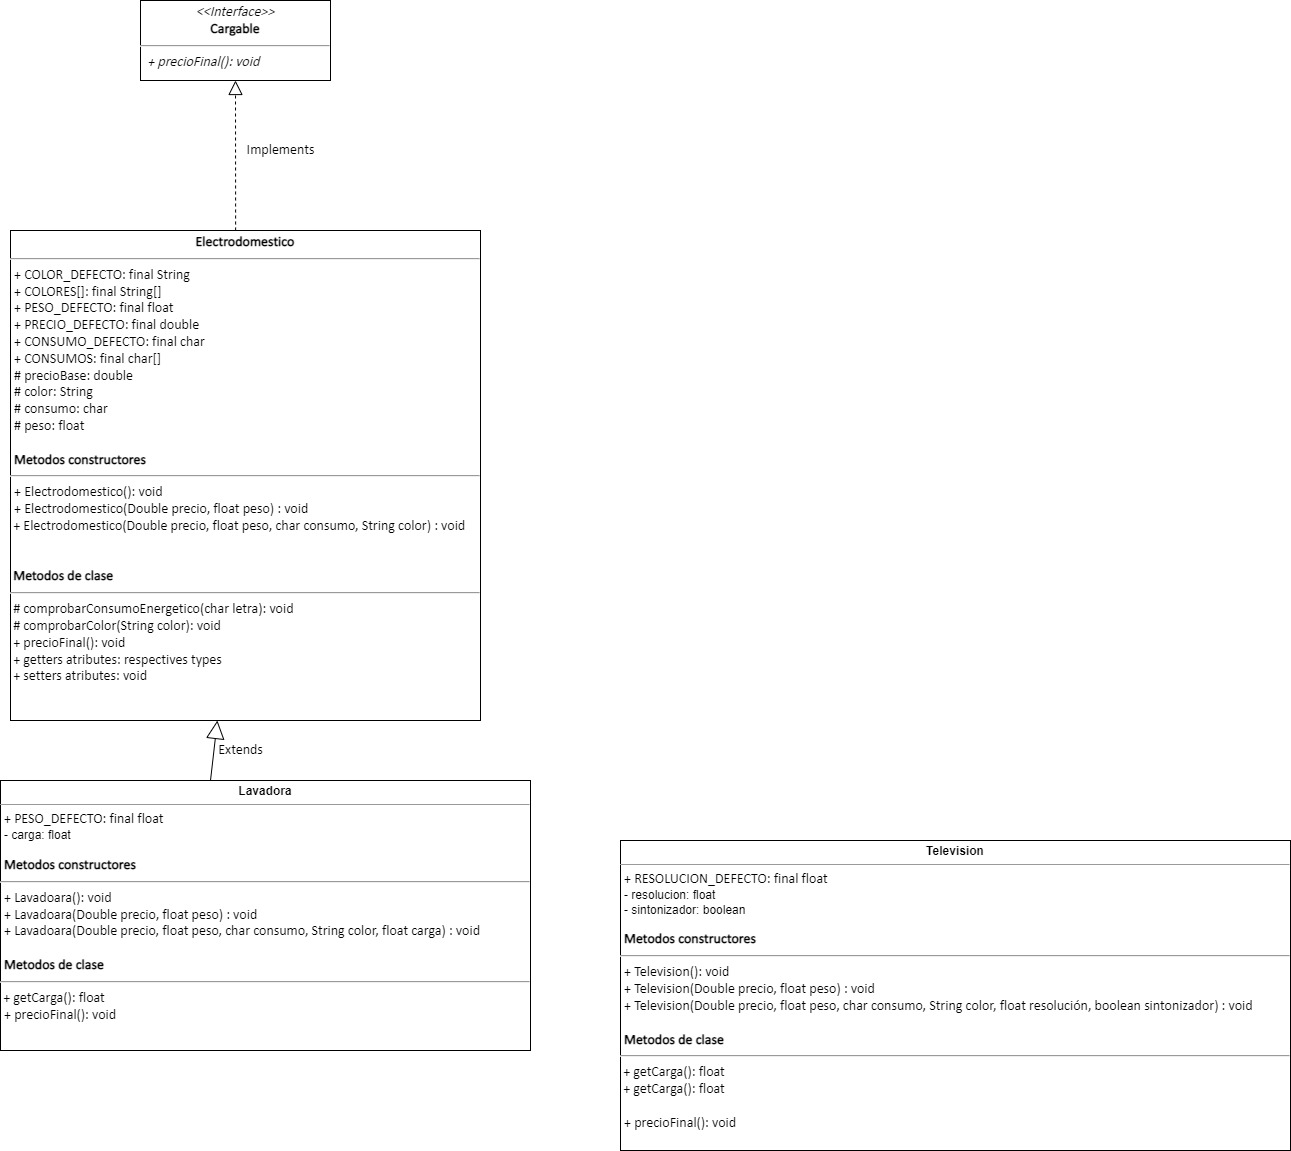
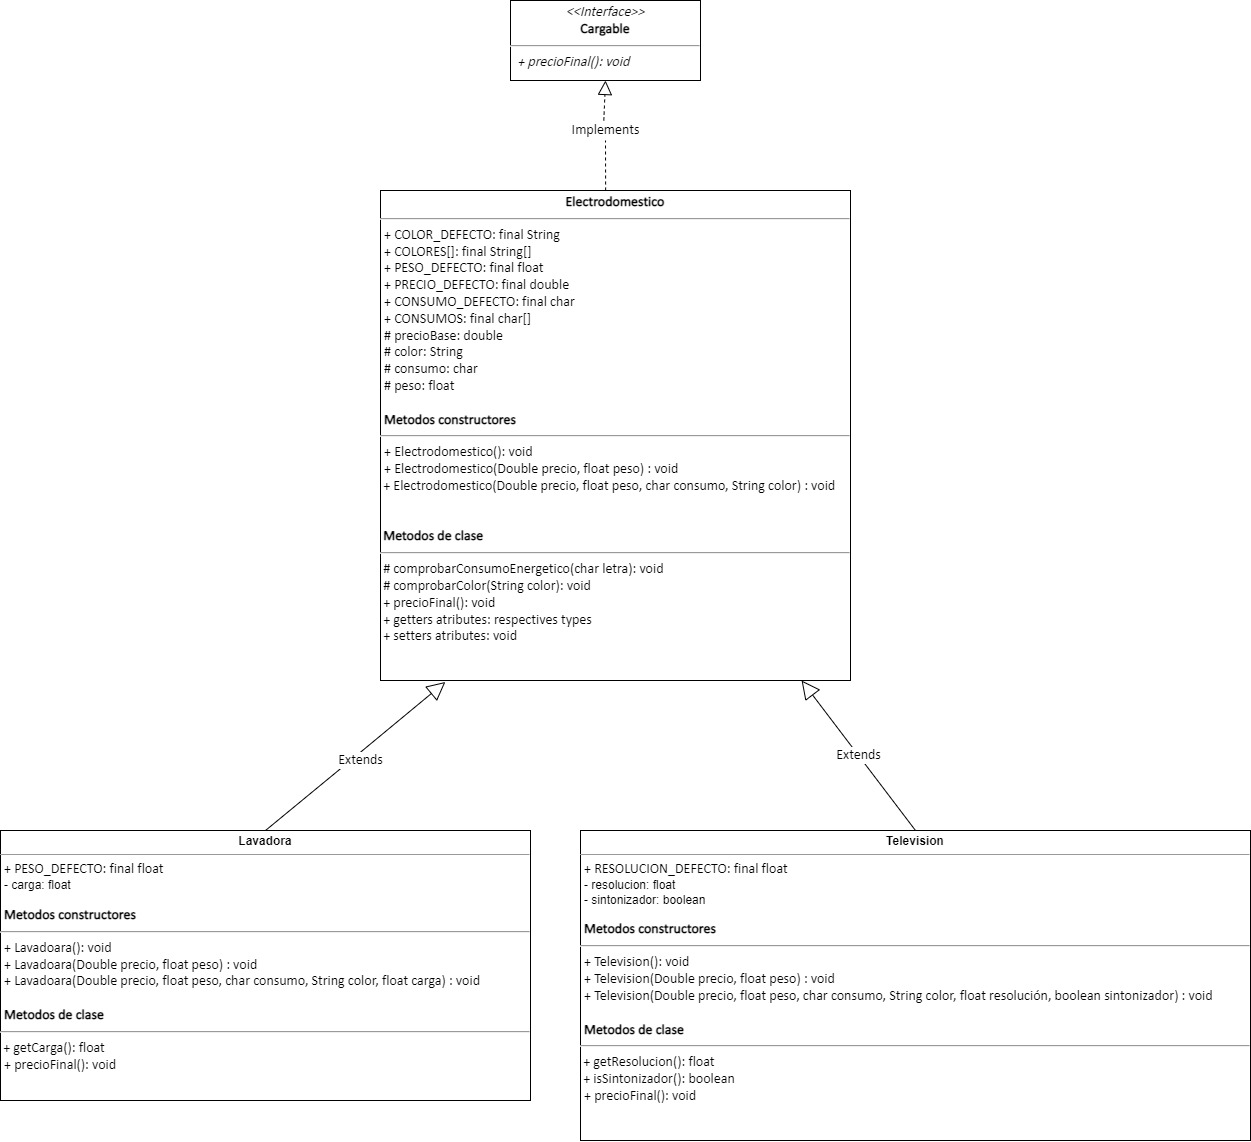
Agregada la clase televisión quitados los supers precioFinal en contructor Electrodomestico

diff --git a/src/modelo/Television.java b/src/modelo/Television.java
@@ -1,0 +1,67 @@
+package modelo;
+
+/**
+ * UD9-Ejercicio-1 - modelo - Television
+ *
+ * @author Jose Antonio González Alcántara
+ * 
+ *         Fecha de creación 21/04/2022
+ */
+public class Television extends Electrodomestico {
+
+	public static final float RESOLUCION_DEFECTO = 20;
+
+	private float resolucion;
+	private boolean sintonizador;
+
+	public Television() {
+		super();
+		this.sintonizador = false;
+		this.resolucion = RESOLUCION_DEFECTO;
+	}
+
+	public Television(double precioBase, float peso) {
+		super(precioBase, peso);
+		this.sintonizador = false;
+		this.resolucion = RESOLUCION_DEFECTO;
+	}
+
+	public Television(double precioBase, String color, char consumo, float peso, float resolucion,
+			boolean sintonizador) {
+		super(precioBase, color, consumo, peso);
+		this.sintonizador = false;
+		this.resolucion = RESOLUCION_DEFECTO;
+	}
+	
+	@Override
+	public void precioFinal() {
+		super.precioFinal();
+		
+		if (this.resolucion > 40) {
+
+			this.precioBase *= 1.30 ;
+
+		}
+		
+		if (this.sintonizador) {
+
+			this.precioBase += 50;
+
+		}
+	}
+
+	/**
+	 * @return the resolucion
+	 */
+	public float getResolucion() {
+		return resolucion;
+	}
+
+	/**
+	 * @return the sintonizador
+	 */
+	public boolean isSintonizador() {
+		return sintonizador;
+	}
+
+}

diff --git a/src/modelo/Electrodomestico.java b/src/modelo/Electrodomestico.java
@@ -7,7 +7,7 @@ package modelo;
  * 
  * Fecha de creación 21/04/2022
  */
-public class Electrodomestico implements Producto {
+public class Electrodomestico implements Cargable {
 
 	// Declaraciones de constantes
 	public static final char CONSUMOS[] = { 'A', 'B', 'C', 'D', 'E', 'F' };
@@ -29,7 +29,7 @@ public class Electrodomestico implements Producto {
 		this.consumo = CONSUMO_DEFECTO;
 		this.peso = PESO_DEFECTO;
 		this.precioBase = PRECIO_DEFECTO;
-		this.precioFinal();
+		//this.precioFinal();
 		
 	}
 
@@ -39,7 +39,7 @@ public class Electrodomestico implements Producto {
 		this.consumo = CONSUMO_DEFECTO;
 		this.peso = peso;
 		this.precioBase = precioBase;
-		this.precioFinal();
+		//this.precioFinal();
 		
 		
 	}
@@ -50,7 +50,7 @@ public class Electrodomestico implements Producto {
 		this.comprobarColor(color);
 		this.peso = peso;
 		this.precioBase = precioBase;
-		this.precioFinal();
+		//this.precioFinal();
 		
 	}
 

diff --git a/src/modelo/Lavadora.java b/src/modelo/Lavadora.java
@@ -18,26 +18,24 @@ public class Lavadora extends Electrodomestico {
 	public Lavadora() {
 		super();
 		this.carga = CARGA_DEFECTO;
-		super.precioFinal();
 		this.precioFinal();
 	}
 
 	public Lavadora(double precioBase, float peso) {
 		super(precioBase, peso);
 		this.carga = CARGA_DEFECTO;
-		super.precioFinal();
 		this.precioFinal();
 	}
 
 	public Lavadora(double precioBase, String color, char consumo, float peso, float carga) {
 		super(precioBase, color, consumo, peso);
 		this.carga = carga;
-		super.precioFinal();
 		this.precioFinal();
 	}
 
 	@Override
 	public void precioFinal() {
+		super.precioFinal();
 		
 		if (this.carga > 30) {
 

diff --git a/src/modelo/Cargable.java b/src/modelo/Cargable.java
@@ -7,7 +7,7 @@ package modelo;
  * 
  * Fecha de creación 21/04/2022
  */
-public interface Producto {
+public interface Cargable {
 
 	public abstract void precioFinal();
 	
